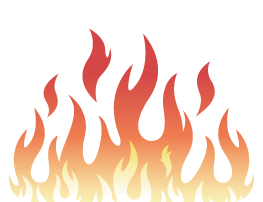
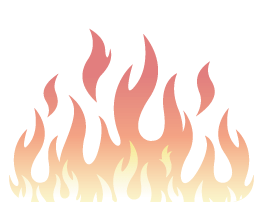
1年以上更新されていないプロジェクトには炎上アイコンが付くようになった

Changed region(s): [[0.0304, 0.1782, 0.9734, 0.9802], [0.3042, 0.1485, 0.4259, 0.505], [0.73, 0.297, 0.8213, 0.5644]]

diff --git a/src/templates/projects/components/list-item.html b/src/templates/projects/components/list-item.html
@@ -1,5 +1,5 @@
 <a href="{{ project.get_absolute_url }}">
-    <div class="panel-body">
+    <div class="panel-body project-panel{% if project.is_legacy %} legacy-project{% endif %}">
         <div class="project-thumbnail">
             <img class="group list-group-image" src="{{ project.get_large_icon }}" height="90px" alt="{{ project.title }} Thumbnail" />
         </div>

diff --git a/src/statics/less/projects.less b/src/statics/less/projects.less
@@ -49,6 +49,12 @@
 .tiled-project-list {
   min-width: 200px;
 
+  .project-panel {
+    &.legacy-project {
+      background-image: url("../img/projects/fire.png");
+    }
+  }
+
   .project-list-item {
     margin: 0 0 20px;
     border: none;

diff --git a/src/kawaz/apps/projects/tests/test_models.py b/src/kawaz/apps/projects/tests/test_models.py
@@ -1,7 +1,6 @@
 from django.test import TestCase
 from django.contrib.auth.models import AnonymousUser
 from django.core.exceptions import PermissionDenied
-
 from .factories import ProjectFactory, CategoryFactory
 from kawaz.core.personas.models import Persona
 from kawaz.core.personas.tests.factories import PersonaFactory
@@ -284,3 +283,19 @@ class ProjectModelTestCase(TestCase):
         self.assertIn(project.administrator, project.active_members)
         self.assertIn(user0, project.active_members)
         self.assertNotIn(user1, project.active_members)
+
+    def test_is_legacy(self):
+        """
+         365日以上更新されていないプロジェクトでは、is_legacyがTrueを返す
+        """
+
+        new_project = ProjectFactory()
+        self.assertFalse(new_project.is_legacy, new_project)
+
+        import datetime
+        from django.utils import timezone
+        past = timezone.now() - datetime.timedelta(days=365)
+        old_project = ProjectFactory(status='planning')
+        old_project.updated_at = past
+
+        self.assertTrue(old_project.is_legacy)

diff --git a/src/kawaz/apps/projects/models.py b/src/kawaz/apps/projects/models.py
@@ -212,6 +212,17 @@ class Project(models.Model):
     def active_members(self):
         return self.members.filter(is_active=True)
 
+    @property
+    def is_legacy(self):
+        """
+        365日以上更新されていない場合、Trueが返ります
+        """
+        import datetime
+        from django.utils import timezone
+        now = timezone.now()
+        one_year_ago = now - datetime.timedelta(days=365)
+        return self.updated_at < one_year_ago
+
     get_small_icon = lambda self: self.get_icon('small')
     get_middle_icon = lambda self: self.get_icon('middle')
     get_large_icon = lambda self: self.get_icon('large')
